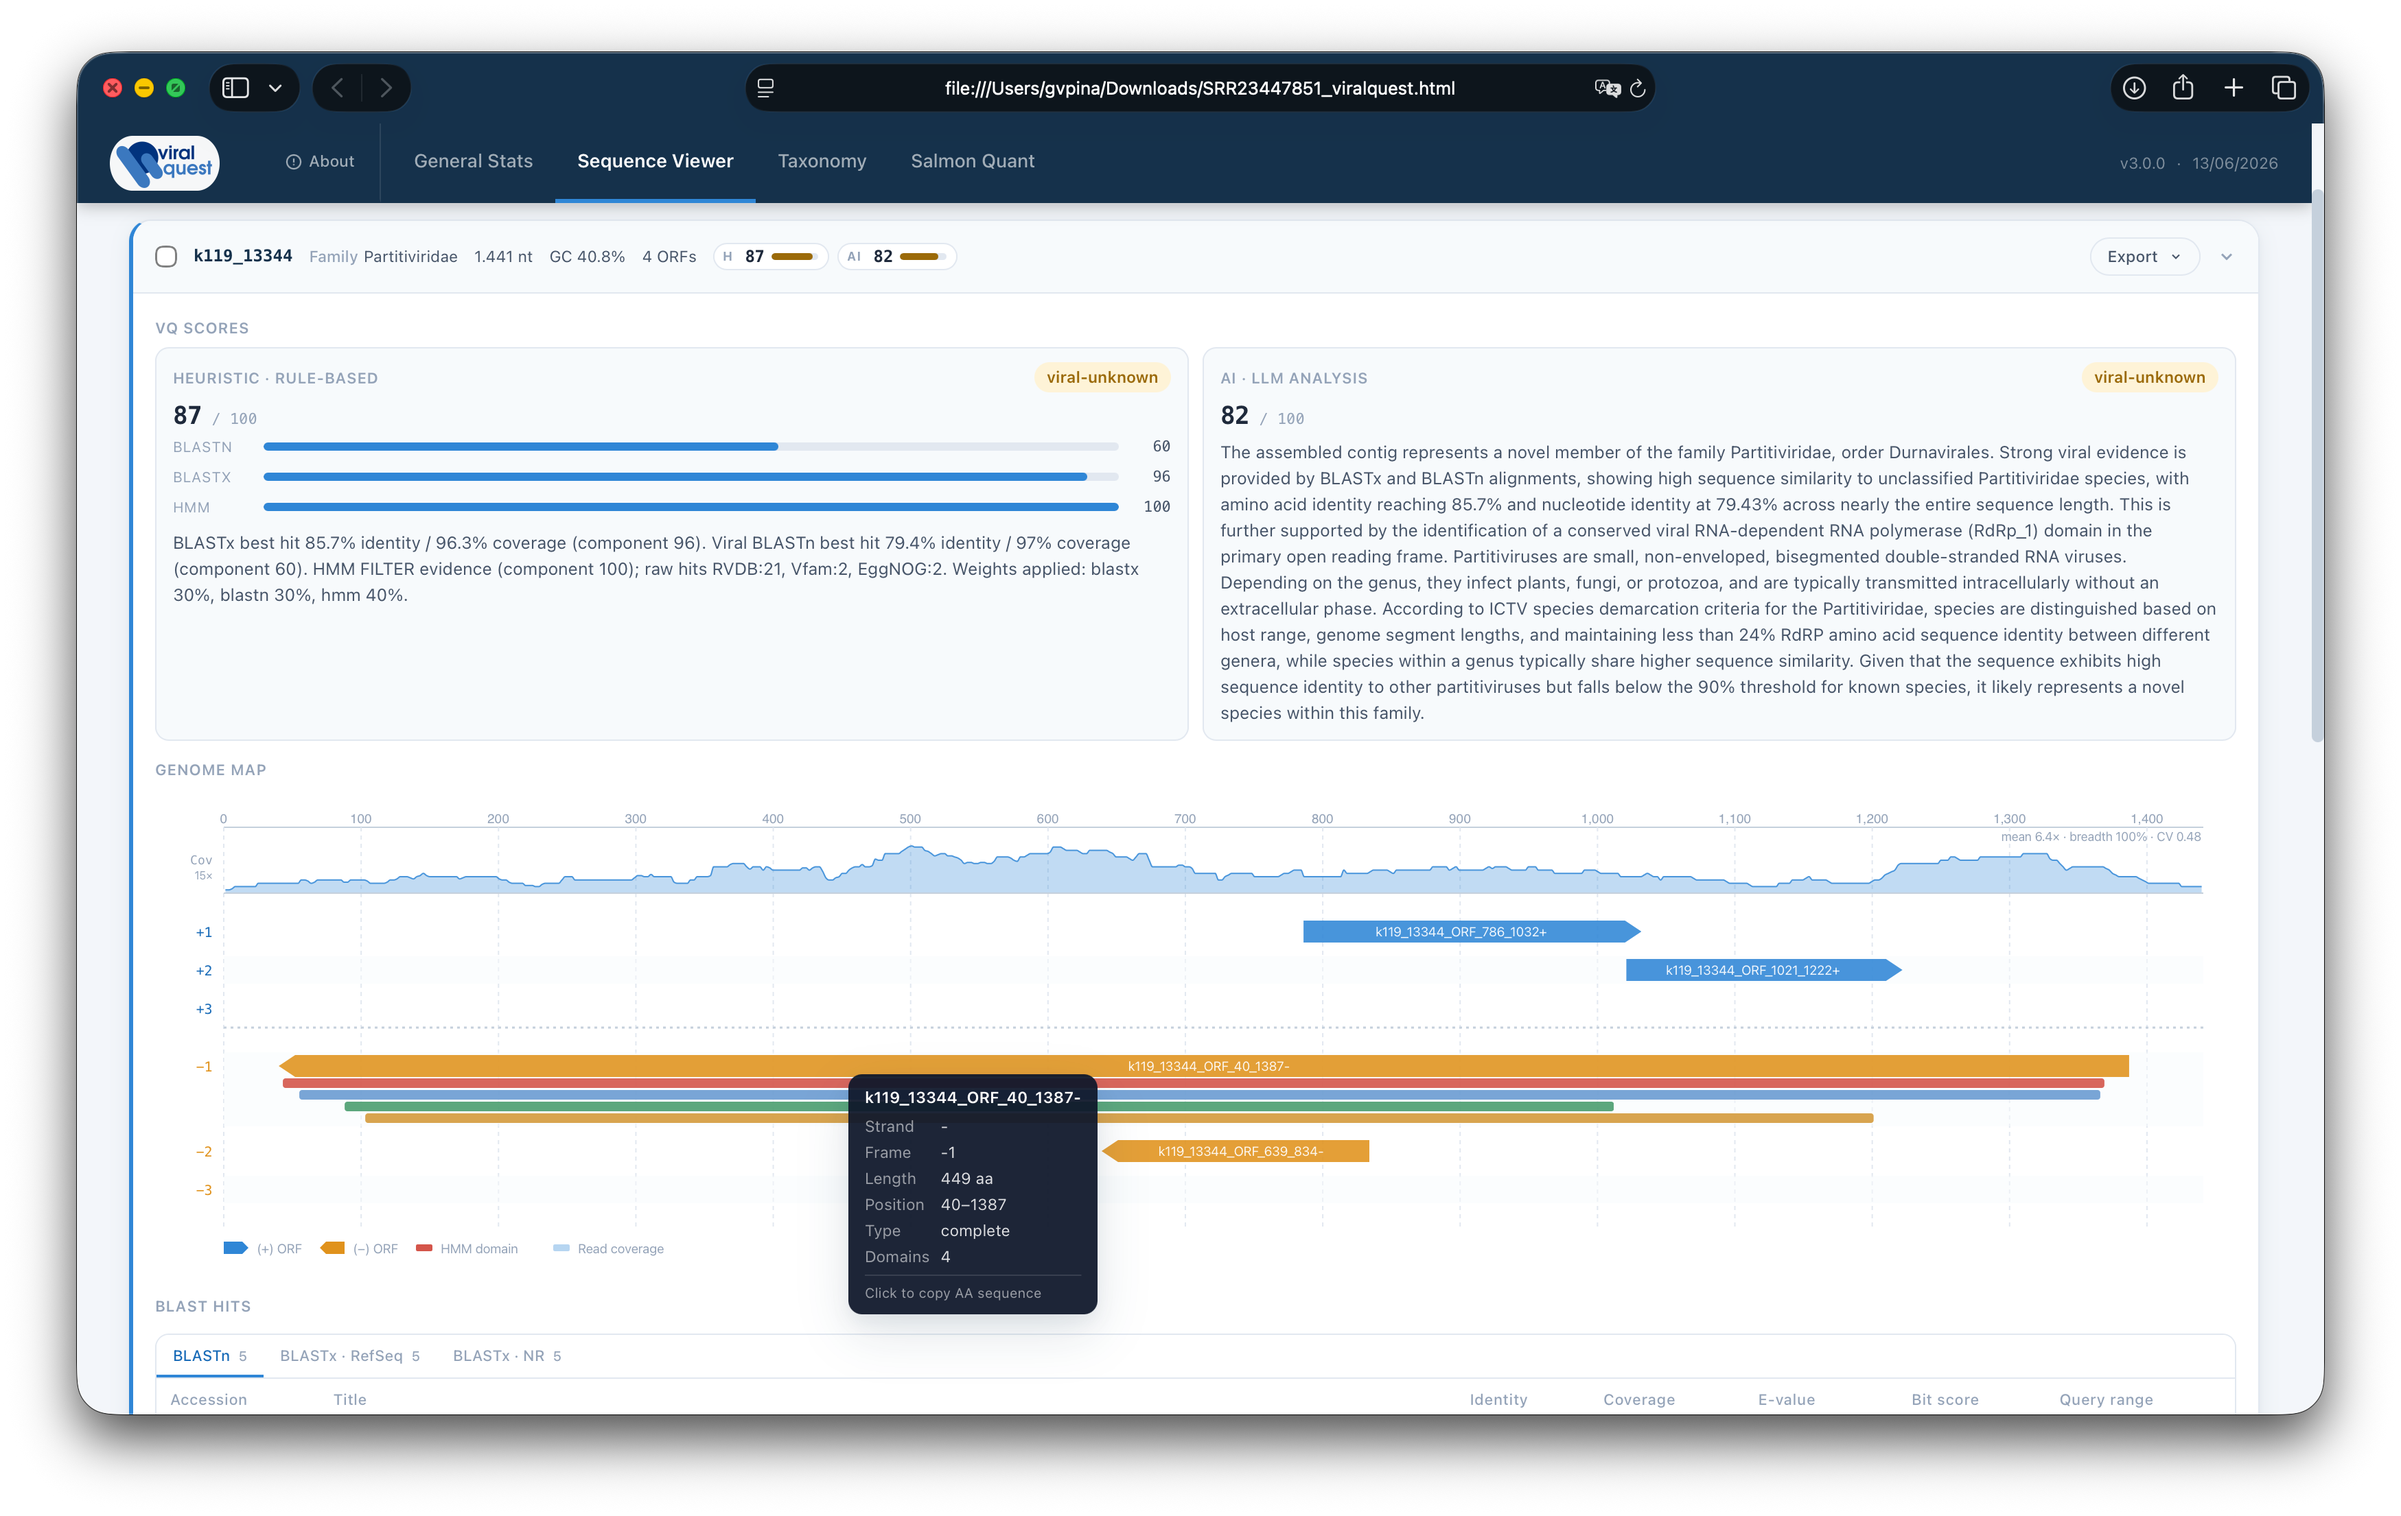
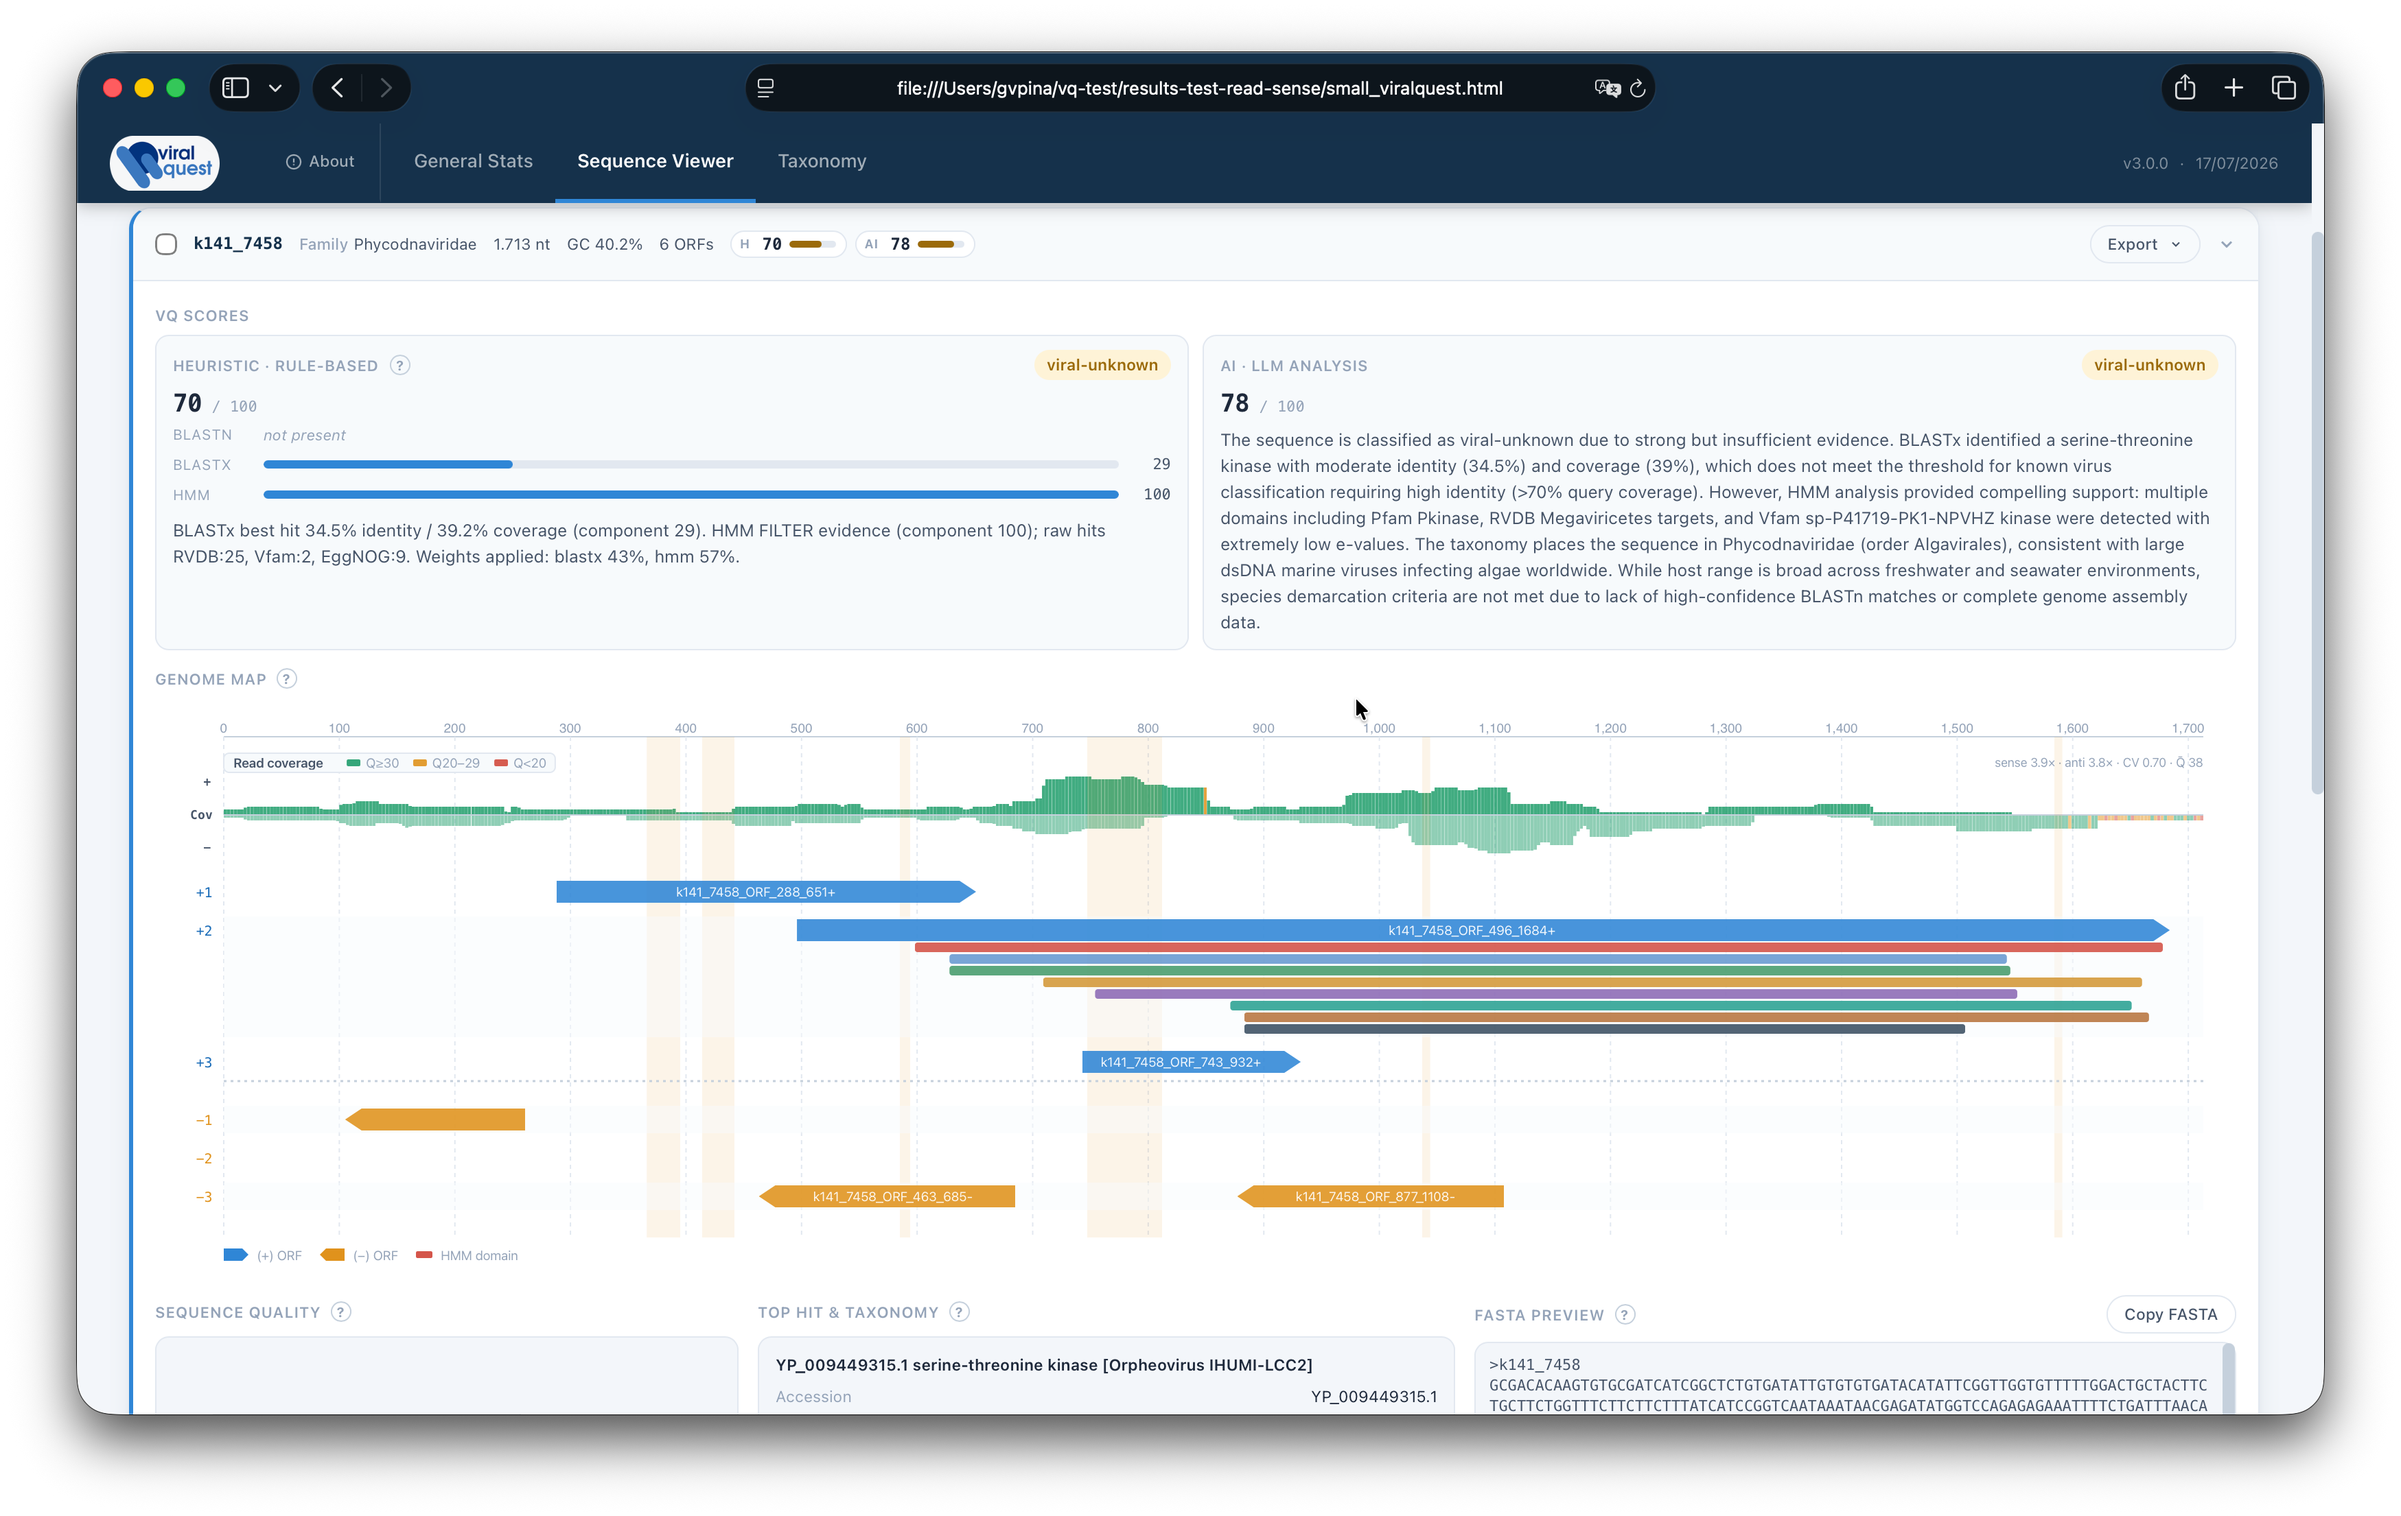
set the llm function to work without nr database

diff --git a/viralquest/score_ai.py b/viralquest/score_ai.py
@@ -17,8 +17,11 @@ from viralquest.biodata import (
 
 
 class LlmMode(Enum):
-    HIGH = "high"   # all hits, Pfam details included, full family description
-    LOW  = "low"    # best hits only, Pfam details omitted, standardised description
+    # Pfam domain `details` text is never sent to the LLM (removed to avoid
+    # token bloat on Pfam-rich sequences); the high/low distinction is in the
+    # other dimensions below.
+    HIGH = "high"   # all hits, full family description
+    LOW  = "low"    # best hits only, standardised family description
 
 
 # ---------------------------------------------------------------------------
@@ -46,8 +49,8 @@ def _blastn_dict(h: BlastnResult) -> dict:
     }
 
 
-def _domain_dict(d: HmmDomain, include_details: bool) -> dict:
-    r: dict = {
+def _domain_dict(d: HmmDomain) -> dict:
+    return {
         "database":    d.database,
         "target":      d.target,
         "score":       d.score,
@@ -55,18 +58,15 @@ def _domain_dict(d: HmmDomain, include_details: bool) -> dict:
         "description": d.description,
         "type":        d.type,
     }
-    if include_details:
-        r["details"] = d.details
-    return r
 
 
-def _orf_dict(orf: Orf, include_details: bool) -> dict:
+def _orf_dict(orf: Orf) -> dict:
     return {
         "name":        orf.name,
         "strand":      orf.strand,
         "frame":       orf.frame,
         "length_aa":   orf.length_aa,
-        "hmm_domains": [_domain_dict(d, include_details) for d in orf.domains],
+        "hmm_domains": [_domain_dict(d) for d in orf.domains],
     }
 
 
@@ -86,7 +86,6 @@ class PromptBuilder:
     @classmethod
     def build_input(cls, seq: NucSequence, mode: LlmMode) -> dict:
         high = mode == LlmMode.HIGH
-        include_details = high   # Pfam details only in high-token mode
 
         # --- taxonomy ---
         tax = seq.taxonomy
@@ -155,7 +154,7 @@ class PromptBuilder:
             "taxonomy":           taxonomy_dict,
             "blastx_hits":        blastx_hits,
             "blastn_hits":        blastn_hits,
-            "orfs":               [_orf_dict(o, include_details) for o in seq.orfs],
+            "orfs":               [_orf_dict(o) for o in seq.orfs],
             "viral_family_info":  family_info,
         }
 
@@ -374,8 +373,8 @@ class SequenceScorer:
     model_name : str
         Model identifier (e.g. "llama3.2", "gpt-4o", "claude-sonnet-4-6").
     mode : LlmMode
-        HIGH — all hits, Pfam details, full family description.
-        LOW  — best hits only, no Pfam details, standardised description.
+        HIGH — all hits, full family description.
+        LOW  — best hits only, standardised family description.
     api_key : str | None
         Required for openai / anthropic / google.
     low_mode_delay : float

diff --git a/viralquest/cli.py b/viralquest/cli.py
@@ -799,9 +799,12 @@ def _run_pipeline(args):
     yield from _tick(t)
 
     # ── 12. LLM scoring (optional) ────────────────────────────────────────────
+    # Score the same set the report emits (single source of truth): NR-confirmed
+    # in the --nr-db pathway, is_viral in RefSeq/HMM-only runs, all under --force.
     if args.model_type and args.model_name:
         t          = time.time()
-        viral_seqs = [s for s in seqs if s.blastx_nr_hits]
+        from .exporter import select_confirmed_sequences
+        viral_seqs = select_confirmed_sequences(seqs, force=args.force)
         from .score_ai import SequenceScorer, LlmMode
         mode = LlmMode.HIGH if args.llm_tokens == "high" else LlmMode.LOW
         SequenceScorer(model_type=args.model_type,

diff --git a/README.md b/README.md
@@ -23,8 +23,10 @@ ViralQuest v3 detects and characterizes viral sequences from assembled metagenom
 - **Taxonomy annotation** from NCBI viral taxonomy + ICTV
 - **Sequence clustering** by species
 - **Salmon quantification** with reference or de-novo pathway and bundled multi-kingdom housekeeping genes
+- **Read coverage profiling** (minimap2) — per-base depth track with sense/antisense strand split and base-quality colouring, long-read aware (Illumina / Nanopore / PacBio); coverage discontinuities flag potentially chimeric contigs
+- **Sequence quality checks** — dustmasker low-complexity, self-BLASTn repeat detection (direct / inverted, with dot plot), and jellyfish k-mer repetitiveness on confirmed viral contigs
 - **LLM scoring** via Ollama (local) or OpenAI / Anthropic / Google APIs (`google-genai`)
-- **Self-contained HTML report** with interactive genome map (ORF frames + HMM domains), cluster analysis, taxonomy tree, BLAST tables, and Salmon plots
+- **Self-contained HTML report** with interactive genome map (ORF frames + HMM domains + read-coverage track), cluster analysis, taxonomy tree, BLAST tables, sequence-quality panels, and Salmon plots
 
 Paper: [https://link.springer.com/article/10.1186/s12859-026-06391-6](https://link.springer.com/article/10.1186/s12859-026-06391-6)
 
@@ -116,6 +118,7 @@ viralquest \
   -n             /path/to/nt \
   --transcriptome host_transcriptome.fasta \
   --reads         R1.fastq R2.fastq \
+  --read-type     sr \
   --hk-genes      housekeeping_ids.txt \
   --model-type    ollama \
   --model-name    qwen3:4b \
@@ -160,14 +163,19 @@ viralquest \
 | `--blastn-online` | NCBI e-mail for qblast (no local DB required); captures accession and query coordinates |
 | `--blastn-online-db` | NCBI database for online BLASTn (default: `nt`) |
 
-#### Salmon quantification
+#### Read-based analysis (reads → Salmon + coverage + sequence quality)
+
+Supplying `--reads` enables three read-based modules: **Salmon quantification** (short reads only), **read-coverage profiling** (minimap2, all read types), and **sequence-quality checks**. `--read-type` is required whenever `--reads` is used.
 
 | Argument | Description |
 |---|---|
 | `--reads` | FASTQ file(s): one = single-end, two = paired-end |
 | `--read-type` | Read technology, required with `--reads`: `sr` (Illumina), `ont` (Nanopore), `pb` (PacBio CLR), `hifi` (PacBio HiFi). Salmon quantification runs for `sr` only; with `ont`/`pb`/`hifi` the Salmon step is skipped (its short-read mapping is invalid for long reads) and only minimap2 read coverage is produced. |
-| `--transcriptome` | Host transcriptome FASTA; enables reference pathway |
+| `--transcriptome` | Host transcriptome FASTA; enables the Salmon reference pathway |
 | `--hk-genes` | Text file of reference housekeeping gene IDs (one per line) for normalization; requires `--transcriptome` |
+| `--low-memory` | Low-RAM mode for the Salmon index (`-k 21`, and in de-novo mode drops background contigs < 500 bp). Use when `salmon index` runs out of memory |
+| `--skip-salmon` | Skip Salmon quantification but still run read coverage (incl. sense/antisense) and sequence-quality checks |
+| `--kmer` | k-mer size for the jellyfish repetitiveness score in the sequence-quality module (default: 15) |
 
 #### LLM scoring
 
@@ -202,8 +210,11 @@ SAMPLE_output/
 │   └── Pfam.tsv
 ├── blastn/
 │   └── blastn.tsv               # BLASTn hits (local or online)
-├── salmon/                      # Salmon output directory (if --reads provided)
+├── salmon/                      # Salmon output directory (if --reads, short reads)
 │   └── vq_quant/quant.sf
+├── coverage/                    # per-sequence read-coverage TSVs (if --reads)
+│   └── <seq_id>.tsv             #   bin · position · mean/sense/antisense depth
+├── seq_quality/                 # sequence-quality signals (if --reads)
 ├── SAMPLE_viral_contigs.fasta   # confirmed viral sequences
 ├── SAMPLE_viralquest.json       # full structured report (JSON)
 ├── SAMPLE_viralquest.html       # self-contained interactive HTML report
@@ -214,7 +225,7 @@ The HTML report is fully self-contained (single file, no external dependencies) 
 
 - **Statistics dashboard** — pipeline summary, BLAST/HMM counts, LLM score distribution
 - **Cluster analysis** — sequence grouping with representative sequences and member alignment stats
-- **Sequence viewer** — per-sequence genome map with lane-packed ORF frames (+1/+2/+3/−1/−2/−3), HMM domain overlays, tabbed BLAST hit tables (BLASTn / BLASTx-RefSeq / BLASTx-NR), LLM analysis text, and FASTA export
+- **Sequence viewer** — per-sequence genome map with lane-packed ORF frames (+1/+2/+3/−1/−2/−3), HMM domain overlays, a two-sided read-coverage track (sense up / antisense down, coloured by base quality), tabbed BLAST hit tables (BLASTn / BLASTx-RefSeq / BLASTx-NR), sequence-quality panels (low-complexity bands + repeat dot plot), LLM analysis text, and FASTA export
 - **Taxonomy tree** — D3 radial tree built from phylum → order → family → genus → sequence
 - **Salmon quantification** — viral expression boxplots grouped by cluster, housekeeping gene bar charts per kingdom, host–viral similarity table (EVE detection)
 
@@ -226,6 +237,29 @@ The HTML report is fully self-contained (single file, no external dependencies) 
 
 
 ---
+
+## Read-based analysis
+
+When `--reads` is supplied, three modules run on the confirmed viral sequences in addition to the assembly-based analysis. All three are optional and share the same read input; `--read-type` selects the sequencing technology.
+
+### Read coverage
+
+Confirmed viral sequences are used as a small reference and the reads are aligned with **minimap2** (technology-aware preset per `--read-type`: `sr` → short read, `ont` → `map-ont`, `pb` → `map-pb`, `hifi` → `map-hifi`). A single `samtools mpileup` pass yields, per base:
+
+- **total depth** plus a **sense / antisense strand split** (forward- vs reverse-mapping reads);
+- **mean base quality** (Phred), used to colour the coverage track (green ≥ Q30, amber Q20–29, red < Q20).
+
+In the HTML viewer this renders as a two-sided track under the ORF lanes (sense grows up, antisense down). A roughly uniform profile indicates a well-assembled contig; an internal coverage discontinuity flags a possible chimeric / mis-assembled junction. Per-sequence depth is also exported to `coverage/<seq_id>.tsv`. Coverage runs for **any** read type — it is the read signal used when Salmon is skipped for long reads or via `--skip-salmon`.
+
+### Sequence quality
+
+Structural checks on the confirmed viral contigs, written to `seq_quality/`:
+
+- **dustmasker** — low-complexity regions (shown as bands in the viewer);
+- **self-BLASTn** — internal direct and inverted repeats, visualised as a dot plot (slope +1 direct, −1 inverted);
+- **jellyfish** — a k-mer repetitiveness score (k set by `--kmer`, default 15).
+
+These flag assembly artefacts and repeat structure that can otherwise inflate or distort downstream interpretation.
 
 ## Salmon quantification
 
@@ -241,7 +275,7 @@ Bundled housekeeping genes cover seven kingdoms: mammals, arthropods, plants, fi
 
 ## LLM scoring
 
-Runs only on NR-confirmed sequences. The Google backend uses the [`google-genai`](https://googleapis.github.io/python-genai/) package (`google-genai>=1.0.0`).
+Runs on the same set of confirmed sequences the report emits: NR-confirmed sequences in the `--nr-db` pathway, or RefSeq/HMM-confirmed (`is_viral`) sequences when NR is not used — and all sequences under `--force`. The Google backend uses the [`google-genai`](https://googleapis.github.io/python-genai/) package (`google-genai>=1.0.0`).
 
 ```bash
 # Local (Ollama) — minimum recommended model: qwen3:4b
